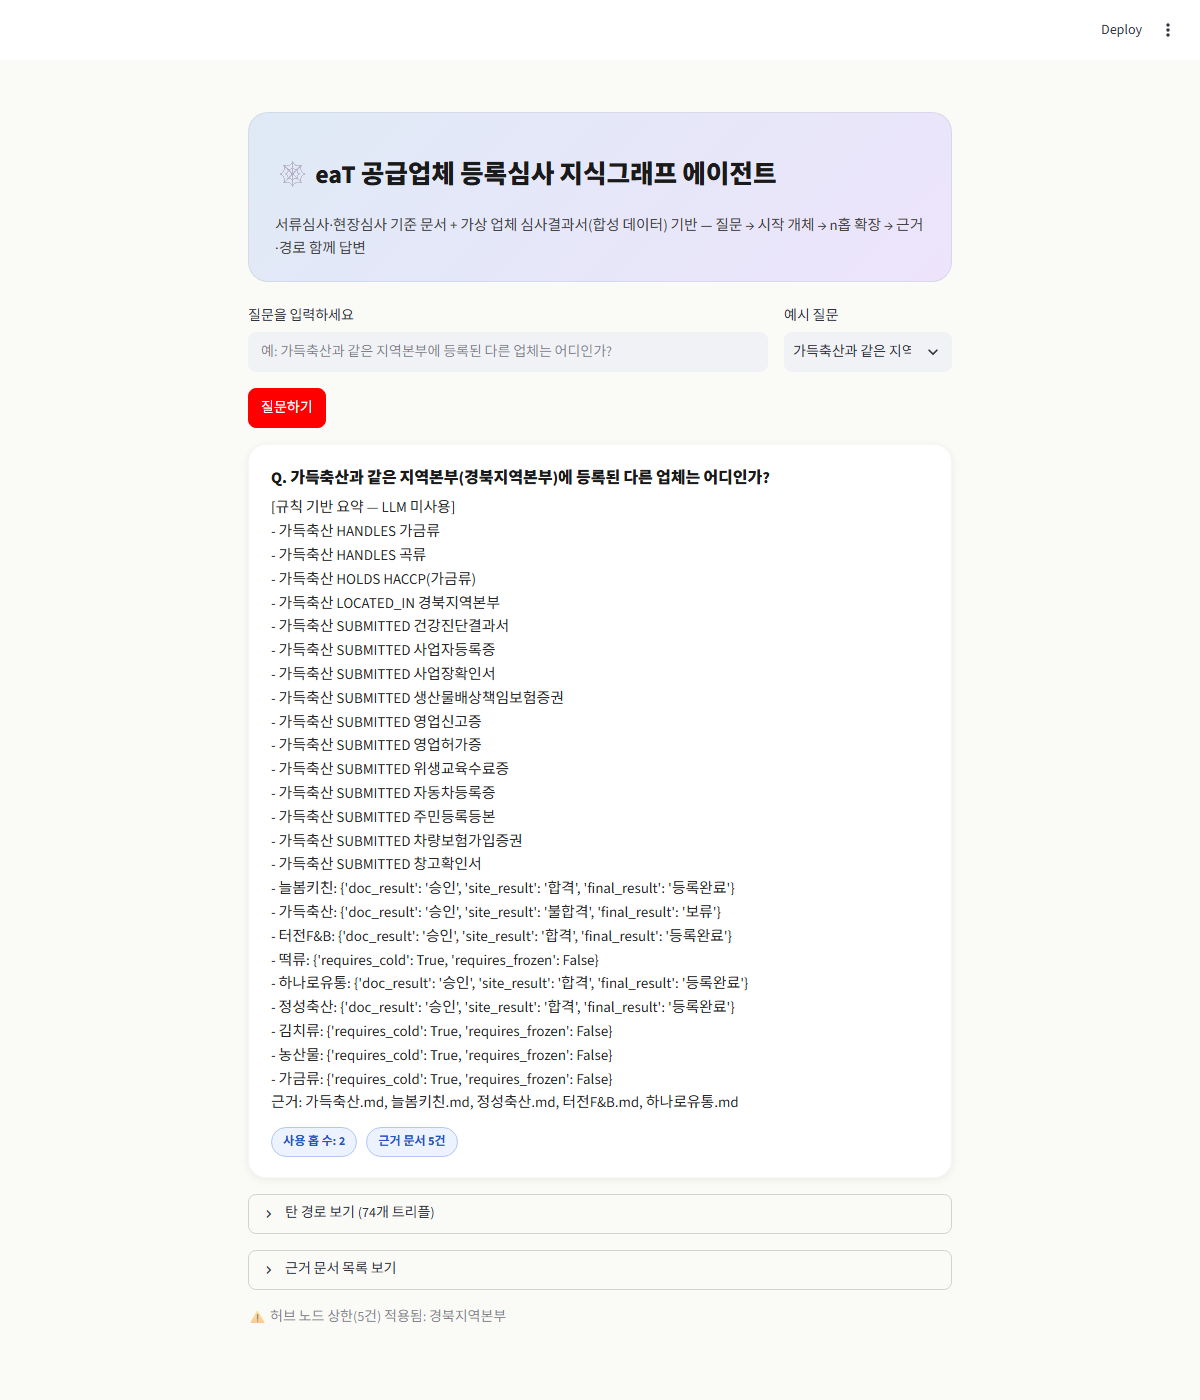
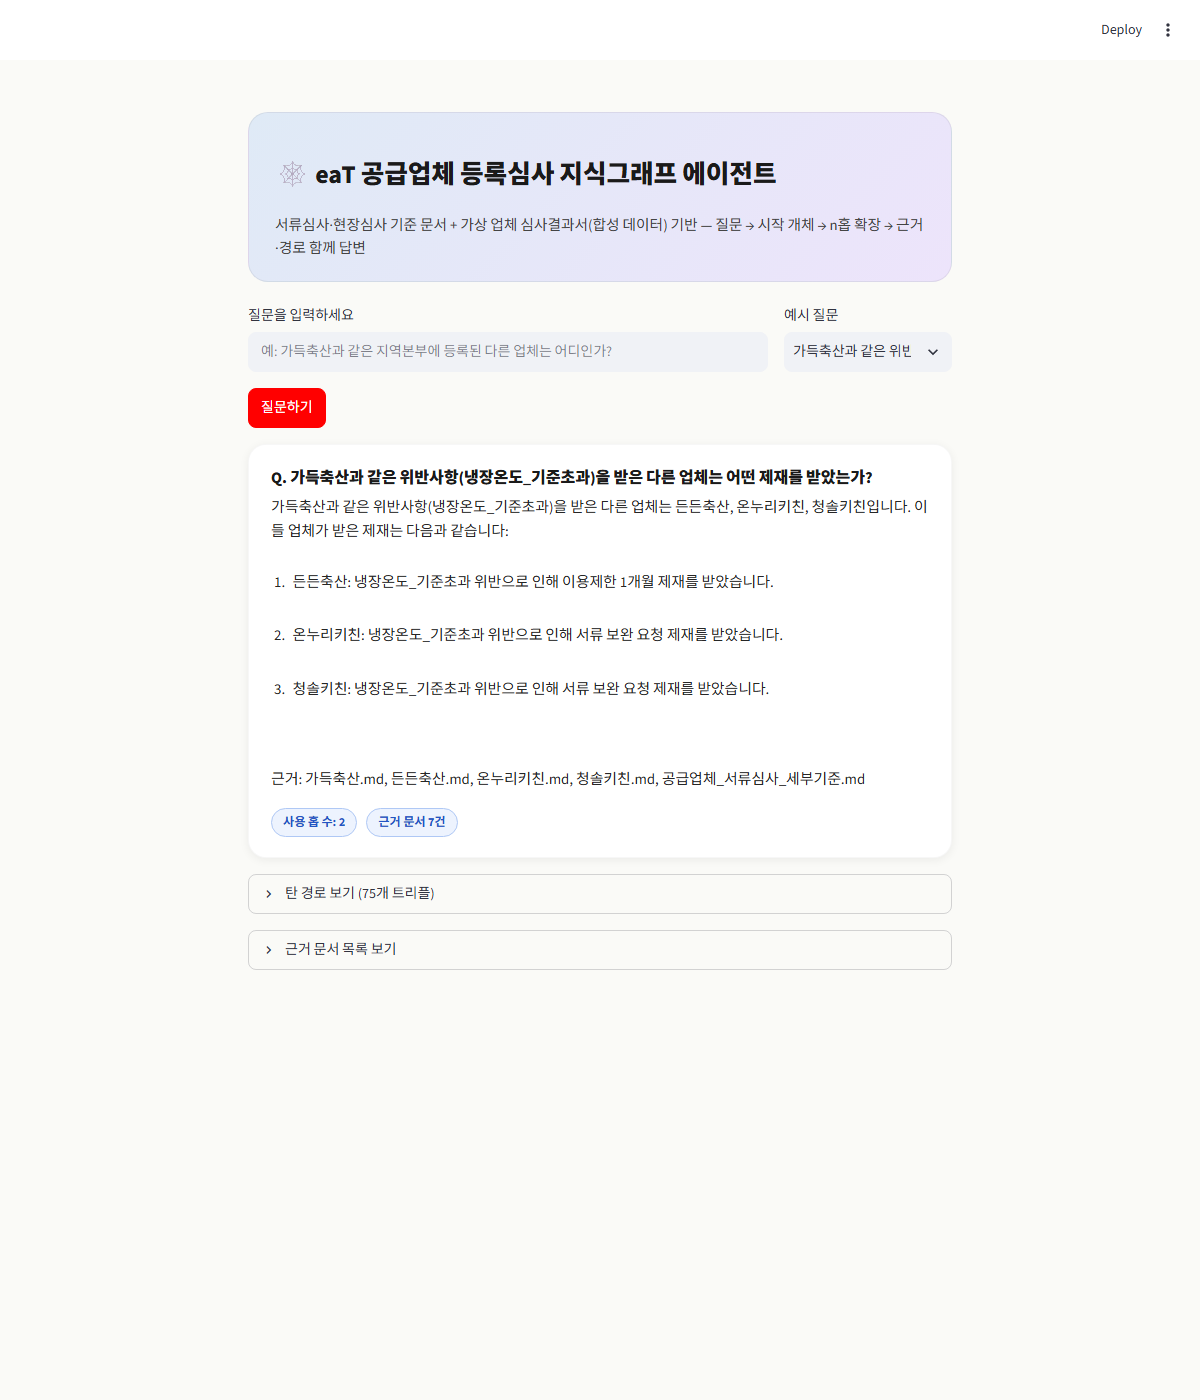
시스템 프롬프트에 업체별 개별 확인 지시 추가해 다업체 뭉뚱그림 환각 수정
여러 업체가 같은 위반유형을 공유해도 제재는 업체마다 다를 수 있는데,
LLM이 이를 하나로 일반화하는 환각이 있었다. ANSWER_SYSTEM_PROMPT에
업체별로 삼중항을 짚어 개별 확인하라는 지시와 자기검증 지시를 추가.

evaluate.py의 실패층 분류도 함께 고쳤다 — '이용제한_1개월'(코드 표기)과
LLM이 쓰는 '이용제한 1개월'(자연어 표기)을 다른 문자열로 취급해 정상
답변을 생성 실패로 오분류하고 있었다. 밑줄/공백 정규화 비교로 수정.

데모 스크린샷을 LLM 실답변(수정된 프롬프트) 화면으로 교체.

diff --git a/agent.py b/agent.py
@@ -31,6 +31,13 @@ MODEL = "gpt-4o"
 ANSWER_SYSTEM_PROMPT = """당신은 eaT 공공급식통합플랫폼 공급업체 등록심사 지식그래프 에이전트입니다.
 아래로 주어지는 '근거 삼중항'과 '노드 속성'만 사용해서 질문에 답하세요.
 - 근거에 없는 내용은 절대 지어내지 말고 "모른다"고 답하세요.
+- 질문이 여러 업체(또는 여러 개체)에 대해 묻고 있다면, 절대 하나의 값으로 뭉뚱그리지 말고
+  업체별로 각각 어떤 삼중항이 있는지 짚어가며 개별적으로 답하세요. 예를 들어 A·B·C 업체가
+  같은 위반유형을 공유하더라도 제재(Sanction)는 업체마다 다를 수 있습니다 — "모두 같은
+  제재를 받았다"고 일반화하기 전에, 각 업체 이름 옆에 붙은 RESULTS_IN/그 외 관계를 하나씩
+  따로 확인하세요. 한 업체의 사실을 다른 업체에게도 해당된다고 추정하지 마세요.
+- 답변을 쓰기 전에 근거 삼중항 목록을 다시 훑어, 답변에 쓸 모든 문장이 실제로 존재하는
+  삼중항 하나 이상과 정확히 대응하는지 스스로 확인하세요. 대응하는 삼중항이 없는 문장은 쓰지 마세요.
 - 답변 마지막 줄에 반드시 "근거:" 로 시작하는 줄을 추가해 사용한 출처 문서 파일명을 나열하세요.
 - 간결하고 사실 위주로 답하세요."""
 

diff --git a/evaluate.py b/evaluate.py
@@ -91,6 +91,13 @@ def fact_exists_anywhere_in_graph(g, expected_evidence):
     return False
 
 
+def normalize_for_compare(s):
+    """'이용제한_1개월'(코드) 과 '이용제한 1개월'(LLM 자연어)처럼 밑줄/공백 표기만
+    다른 걸 같은 문자열로 보기 위한 정규화. 실제로 이 차이 때문에 정상 답변이
+    '생성 실패'로 오분류되는 걸 겪고 나서 추가했다."""
+    return s.replace("_", "").replace(" ", "")
+
+
 def classify_failure(item, result, g):
     """평가recall이 1.0 미만인 문항의 실패 층을 가른다."""
     expected_evidence = set(item["evidence"])
@@ -99,7 +106,8 @@ def classify_failure(item, result, g):
     if not missing:
         # 근거는 다 모았는데 최종 답변 문장에 핵심 키워드가 안 보이면 생성 단계 문제
         key_terms = [t for t in re.split(r"[,;() ]+", item["expected_answer"]) if len(t) >= 2]
-        if key_terms and not any(t in result["answer"] for t in key_terms):
+        answer_norm = normalize_for_compare(result["answer"])
+        if key_terms and not any(normalize_for_compare(t) in answer_norm for t in key_terms):
             return "생성"
         return None  # 정상
     if not fact_exists_anywhere_in_graph(g, missing):

diff --git a/REPORT.md b/REPORT.md
@@ -38,12 +38,14 @@
 
 1홉에서는 GraphRAG와 basic RAG가 동률이다 — 답이 앵커 업체 문서 한 건 안에 다 있으니 키워드 검색만으로 충분하다. **2홉부터 격차가 벌어진다**(0.98 vs 0.60) — "같은 지역본부의 다른 업체"처럼 정답이 앵커와 아무 키워드도 안 겹치는 별도 문서에 있을 때, basic RAG는 애초에 그 문서를 검색 후보에 올리지 못하지만 GraphRAG는 그래프를 타고 찾아간다. 이게 이 프로젝트가 그래프 구조를 쓰는 이유를 그대로 보여주는 숫자다.
 
-**실패층 분류** (`output/runs.jsonl`에 문항별 기록):
-- **색인 실패 0건**: 추출 단계에서 통째로 빠진 사실은 없었다.
-- **탐색 실패 1건 (Q4)**: 경북지역본부에 실제로는 앵커 포함 6개 업체가 있는데, 허브 캡(5)에 걸려 1곳이 결과에서 빠졌다. 우리가 정한 트레이드오프(허브 폭발 방지 vs 완전 재현)가 그대로 드러난 사례다.
-- **생성 실패 1건 (Q6)**: "가득축산과 같은 위반사항(냉장온도_기준초과)을 받은 다른 업체는 어떤 제재를 받았는가?" — 근거 재현율은 1.0(든든축산·온누리키친·청솔키친 문서 전부 확보)이었는데도, LLM이 "이들 업체는 모두 이용제한 1개월의 제재를 받았습니다"라고 답했다. 실제로는 든든축산만 이용제한_1개월이고 온누리키친·청솔키친은 서류_보완요청이다 — 근거에 세 업체가 서로 다른 제재를 받았다고 분명히 적혀 있는데도 LLM이 하나로 뭉뚱그린 **진짜 환각**이다. 검색은 100% 성공했고 생성 단계에서만 깨진, 이 분류 체계가 정확히 잡아내야 하는 유형의 실패다.
+**실패층 분류** (`output/runs.jsonl`에 문항별 기록). 최종 결과는 **색인 0 · 탐색 1 · 생성 0**이지만, 여기까지 오는 과정에서 실패층이 세 번 자리를 옮겼다 — 그 과정 자체가 "왜 색인·탐색·생성을 나눠서 봐야 하는지"를 보여준다.
 
-  (LLM 연결 전에는 다른 문항(Q3, "가온식품이 받은 제재조치는?")이 생성 실패로 잡혔었다 — 근거는 맞게 모았는데 그때는 `OPENAI_API_KEY` 없이 규칙 기반 요약만 돌려서 "해당없음"이라는 결론 문장을 스스로 못 만들었기 때문. LLM을 연결하자 Q3는 정상적으로 "정보가 없다"고 답해 해결됐고, 대신 Q6에서 진짜 환각이 드러났다 — 근거 재현율이 1.0이어도 생성 단계 검증이 왜 별도로 필요한지 보여주는 사례다.)
+- **탐색 실패 1건 (Q4, 고정)**: 경북지역본부에 실제로는 앵커 포함 6개 업체가 있는데, 허브 캡(5)에 걸려 1곳이 결과에서 빠졌다. 우리가 정한 트레이드오프(허브 폭발 방지 vs 완전 재현)가 그대로 드러난 사례로, 설계상 의도된 동작이다.
+- **생성 실패, 1차 (`OPENAI_API_KEY` 연결 전)**: Q3("가온식품이 받은 제재조치는?")가 잡혔다. 근거(위반사항 없음)는 맞게 모았는데, 그때는 API 키 없이 규칙 기반 요약(트리플 나열)만 돌려서 "해당없음"이라는 결론 문장을 스스로 못 만들었기 때문이다.
+- **생성 실패, 2차 (API 키 연결 후)**: Q3는 해결됐지만 대신 Q6("가득축산과 같은 위반사항을 받은 다른 업체는 어떤 제재를 받았는가?")에서 **진짜 환각**이 나왔다. 근거 재현율은 1.0(든든축산·온누리키친·청솔키친 문서 전부 확보)인데도 LLM이 "이들 업체는 모두 이용제한 1개월의 제재를 받았습니다"라고 답했다 — 실제로는 든든축산만 이용제한_1개월이고 온누리키친·청솔키친은 서류_보완요청인데, 근거에 서로 다르다고 분명히 적혀 있는 걸 하나로 뭉뚱그렸다. 검색은 100% 성공했고 생성 단계에서만 깨진 사례다. `agent.py`의 `ANSWER_SYSTEM_PROMPT`에 "여러 업체를 하나로 뭉뚱그리지 말고 업체별로 삼중항을 짚어 답하라"는 지시와 "쓰기 전에 각 문장이 실제 삼중항과 대응하는지 스스로 확인하라"는 지시를 추가하자 재현됐다.
+- **생성 실패, 3차 — 사실은 평가지표 버그**: 프롬프트를 고친 뒤에도 `evaluate.py`가 Q6을 계속 생성 실패로 잡았다. 확인해보니 LLM은 이미 "든든축산: 이용제한 1개월 / 온누리키친: 서류 보완 요청 / 청솔키친: 서류 보완 요청"으로 정확히 답하고 있었는데, `classify_failure()`가 기대정답의 `이용제한_1개월`(밑줄 코드 표기)을 LLM의 자연스러운 `이용제한 1개월`(띄어쓰기)과 문자열이 다르다는 이유로 놓치고 있었다. 밑줄/공백을 정규화하고 비교하도록 `evaluate.py`를 고치자 생성 실패가 0건이 됐다.
+
+정리하면: 실제로 있었던 문제는 두 개였다 — (1) API 키 없이 돌리면 결론 문장을 못 만드는 것(설계상 당연한 한계), (2) LLM이 여러 업체의 사실을 뭉뚱그리는 것(프롬프트로 해결). 세 번째는 실패가 아니라 평가 스크립트 자체의 문자열 비교 버그였다 — 실패층 분류를 신뢰하려면 분류기 자체도 검증해야 한다는 걸 이번에 확인했다.
 
 ## 4. 파이프라인 구조
 
@@ -93,7 +95,7 @@ Streamlit으로 만들었다(`app.py`). 신경 쓴 부분:
 
 ![데모 화면](assets/demo_screenshot.png)
 
-위는 "가득축산과 같은 지역본부에 등록된 다른 업체는 어디인가?"를 실제로 물어본 결과다. 사용 홉 수(2)·근거 문서 수(5건) 배지, 허브 노드 상한(5건) 적용 캡션("경북지역본부")까지 화면에서 확인할 수 있다.
+위는 실제 `OPENAI_API_KEY`를 연결한 상태에서 Q6("가득축산과 같은 위반사항을 받은 다른 업체는 어떤 제재를 받았는가?")를 물어본 결과다. 3절에서 다룬 환각을 프롬프트 수정으로 고친 뒤라, 든든축산·온누리키친·청솔키친 세 업체의 서로 다른 제재가 뭉뚱그려지지 않고 각각 정확히 구분되어 나온다.
 
 ## 6. 프로젝트 회고
 
@@ -101,5 +103,5 @@ Streamlit으로 만들었다(`app.py`). 신경 쓴 부분:
 
 **향후 개선점**:
 1. 관계 감지가 키워드 매칭이라("지역본부"→LOCATED_IN 등) 표현이 다르면 못 잡는다. LLM으로 질문의 관계 의도를 파싱하면 더 견고해질 것이다.
-2. LLM을 실제로 연결해보니(3절), 업체마다 다른 값을 가진 관계(예: 위반유형별 제재)를 물으면 LLM이 여러 업체의 사실을 하나로 뭉뚱그려 답하는 환각이 나왔다 — 근거 재현율이 1.0이어도 생성 단계에서 깨질 수 있다는 걸 실측으로 확인했다. 시스템 프롬프트에 "업체별로 구분해서 답하라"는 지시를 추가하거나, 답변 생성 후 각 문장이 근거 삼중항과 1:1로 대응하는지 자동 검증하는 후처리 단계를 추가하면 줄일 수 있을 것이다.
+2. (해결됨, 3절 참고) LLM을 실제로 연결해보니 업체마다 다른 값을 가진 관계(위반유형별 제재)를 물으면 여러 업체의 사실을 하나로 뭉뚱그리는 환각이 나왔다. `ANSWER_SYSTEM_PROMPT`에 "업체별로 삼중항을 짚어 개별 확인하라"는 지시를 추가해 재현했지만, 근본적으로는 프롬프트 지시에만 의존하는 방어라 다른 유형의 질문에서 비슷한 환각이 재발할 수 있다 — 답변 생성 후 각 문장이 근거 삼중항과 실제로 대응하는지 자동 검증하는 후처리 단계를 추가하면 더 견고해질 것이다.
 3. 코퍼스가 합성이라 실제 심사 데이터에 있을 법한 예외 사례(애매한 반려 사유, 서류 간 모순 등)가 부족하다. 실제 배포 전에는 익명화된 실제 사례 일부로 검증이 필요하다.
